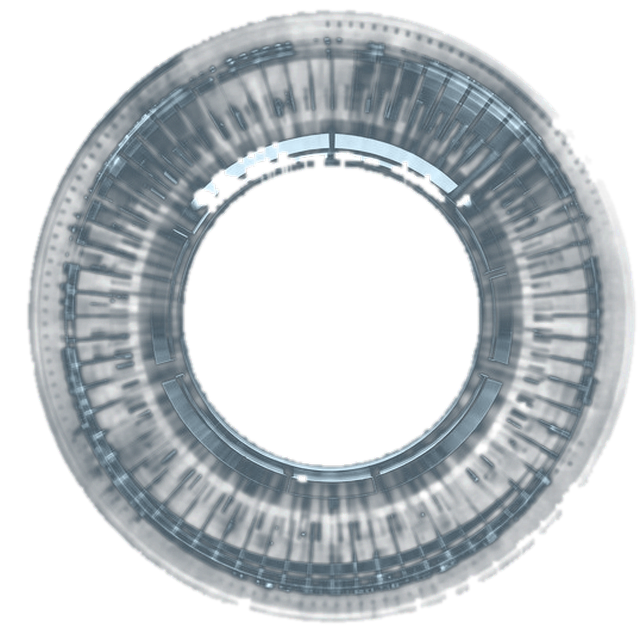
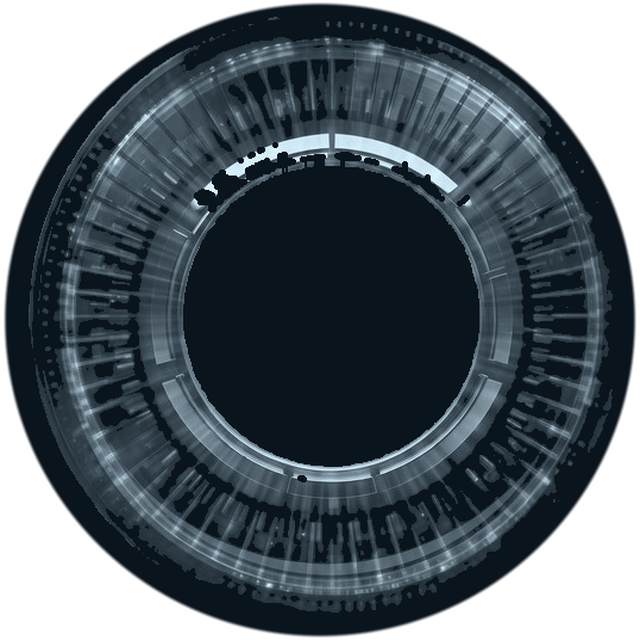
Garde transparent uniquement le fond des calques du cœur

diff --git a/tools/build-jarvis-core.py b/tools/build-jarvis-core.py
@@ -24,7 +24,7 @@ import argparse
 from pathlib import Path
 
 import numpy as np
-from PIL import Image, ImageFilter
+from PIL import Image, ImageDraw, ImageFilter
 
 ROOT = Path(__file__).resolve().parent.parent
 ASSETS = ROOT / "viewer" / "assets"
@@ -94,6 +94,28 @@ def save(rgb: np.ndarray, alpha: np.ndarray, name: str) -> None:
     print(f"{name:26s} {destination.stat().st_size:>8,} octets  bbox {image.getchannel('A').getbbox()}")
 
 
+def solidify(alpha: np.ndarray, rgb: np.ndarray, fill_colour: str,
+             floor: float = 1.0) -> tuple[np.ndarray, np.ndarray]:
+    """Transforme un détourage en pastille pleine : seul l'extérieur reste transparent.
+
+    Le fond est éliminé par un masque circulaire propre (le bruit du détourage ne laisse
+    donc aucune tache), et tout l'intérieur — y compris le trou central de l'anneau —
+    reçoit la matière de la pièce. `fill_colour` sert à combler ce trou.
+    """
+    height, width = alpha.shape
+    yy, xx = np.mgrid[0:height, 0:width]
+    cx, cy = (width - 1) / 2, (height - 1) / 2
+    distance = np.sqrt((xx - cx) ** 2 + (yy - cy) ** 2)
+    outer = min(width, height) / 2 * 0.995
+    circle = 1.0 - smooth(distance / outer, 0.985, 1.0)
+    # Le contour extérieur garde un léger flou pour ne pas créneler sur le décor.
+    shaped = np.maximum(feather(alpha, 0.8), circle * floor)
+    shaped = np.minimum(shaped, circle)
+    low = np.array([int(fill_colour[i:i + 2], 16) / 255 for i in (1, 3, 5)], dtype=np.float32)
+    filled_rgb = np.where((alpha < 0.35)[:, :, None], low, rgb)
+    return np.clip(filled_rgb, 0, 1), np.clip(shaped, 0, 1)
+
+
 def steel(rgb: np.ndarray, dark: str, light: str) -> np.ndarray:
     """Acier bleuté : l'éclat d'origine module un dégradé sombre → clair contrôlé."""
     low = np.array([int(dark[i:i + 2], 16) / 255 for i in (1, 3, 5)], dtype=np.float32)
@@ -121,8 +143,9 @@ def build_crown() -> None:
     cx, cy, radius = measure(lum > 0.05)
     cut_rgb, cut_alpha, cut_lum = crop_circle(rgb, body, cx, cy, radius * 1.01, companion=lum)
     # Métal sombre : la masse reste presque noire, seules les arêtes chromées s'allument.
-    colour = steel(cut_rgb, "#0d141c", "#f2fbff") ** 1.45 * 0.92
-    save(*to_square(np.clip(colour, 0, 1), feather(cut_alpha, 0.8), EXPORT), "jarvis-core-ring.png")
+    colour = np.clip(steel(cut_rgb, "#0d141c", "#f2fbff") ** 1.45 * 0.92, 0, 1)
+    colour, cut_alpha = solidify(cut_alpha, colour, "#070d13")
+    save(*to_square(colour, cut_alpha, EXPORT), "jarvis-core-ring.png")
 
 
 def build_veil() -> None:
@@ -145,7 +168,8 @@ def build_veil() -> None:
     )
     cut_alpha = cut_alpha * np.clip(cut_lum * 3.4 - 0.12, 0, 1)
     colour = np.clip(steel(cut_rgb, "#0f1d27", "#dceff9") ** 1.35 * 1.05, 0, 1)
-    save(*to_square(colour, feather(cut_alpha, 1.0), EXPORT), "jarvis-core-veil.png")
+    colour, cut_alpha = solidify(feather(cut_alpha, 1.0), colour, "#0a141d")
+    save(*to_square(colour, cut_alpha, EXPORT), "jarvis-core-veil.png")
 
 
 def build_disc() -> None:
@@ -156,32 +180,38 @@ def build_disc() -> None:
     mask = despeckle(smooth(lum, 0.04, 0.18) * np.maximum(smooth(sat, 0.02, 0.10), 0.55), 7)
     cx, cy, radius = measure(mask, threshold=0.30)
     cut_rgb, cut_alpha, _ = crop_circle(rgb, mask, cx, cy, radius * 1.0)
-    save(*to_square(np.clip(cut_rgb * 1.05, 0, 1), feather(cut_alpha, 1.0), EXPORT), "jarvis-core-disc.png")
+    colour, cut_alpha = solidify(feather(cut_alpha, 1.0), np.clip(cut_rgb * 1.05, 0, 1), "#04121c")
+    save(*to_square(colour, cut_alpha, EXPORT), "jarvis-core-disc.png")
 
 
 def build_light() -> None:
-    """Orbe lumineuse : noyau blanc, couronne de rayons cyan, sans le cerclage métallique.
+    """Orbe lumineuse : disque plein, net, dont les rayons suivent la source.
 
-    La source empile un arc d'acier et l'orbe. L'acier est gris (saturation faible) :
-    on ne conserve donc que le signal cyan, complété par le noyau blanc central.
+    La source empile un arc d'acier et l'orbe. On repère le centre de l'orbe (cyan
+    saturé), puis on reconstruit un disque parfaitement circulaire : la texture de la
+    source module la couleur, la teinte de comblement occupe les zones sombres.
     """
     rgb = load("orb-glow.jpg")
     lum = rgb.max(axis=2)
     sat = rgb.max(axis=2) - rgb.min(axis=2)
-    cyan = smooth(sat, 0.05, 0.28) * smooth(lum, 0.03, 0.25)
     ys, xs = np.where((sat > 0.25) & (lum > 0.35))
     if not len(xs):
         raise SystemExit("Orbe centrale introuvable dans orb-glow.jpg")
     cx, cy = float(xs.mean()), float(ys.mean())
-    yy, xx = np.mgrid[0:rgb.shape[0], 0:rgb.shape[1]]
-    distance = np.sqrt((xx - cx) ** 2 + (yy - cy) ** 2)
-    disc = 1.0 - smooth(distance, 92.0, 122.0)
-    kernel = 1.0 - smooth(distance, 26.0, 40.0)
-    alpha = np.maximum(cyan * disc, kernel * 0.95)
-    alpha = feather(alpha, 1.6)
-    cut_rgb, cut_alpha, _ = crop_circle(rgb, alpha, cx, cy, 126.0)
-    colour = steel(cut_rgb, "#43b6e6", "#ffffff")
-    save(*to_square(np.clip(colour, 0, 1), feather(cut_alpha, 1.2), EXPORT), "jarvis-core-light.png")
+    radius = 104.0
+    height, width = lum.shape
+    yy, xx = np.mgrid[0:height, 0:width]
+    distance = np.sqrt((xx - cx) ** 2 + (yy - cy) ** 2) / radius
+    disc = 1.0 - smooth(distance, 0.90, 1.0)
+    texture = np.clip(lum * 1.35, 0, 1) ** 0.9
+    low = np.array([0x08 / 255, 0x2a / 255, 0x3d / 255], dtype=np.float32)
+    high = np.array([0.72, 0.95, 1.0], dtype=np.float32)
+    colour = low + (high - low) * feather(texture, 2.0)[:, :, None]
+    # Éclaircissement central : le noyau de l'orbe reste blanc.
+    core = 1.0 - smooth(distance, 0.10, 0.45)
+    colour = np.clip(colour + core[:, :, None] * np.array([0.55, 0.42, 0.30], dtype=np.float32), 0, 1)
+    cut_rgb, cut_alpha, _ = crop_circle(colour, disc, cx, cy, radius)
+    save(*to_square(cut_rgb, feather(cut_alpha, 1.4), EXPORT), "jarvis-core-light.png")
 
 
 LAYERS = (
